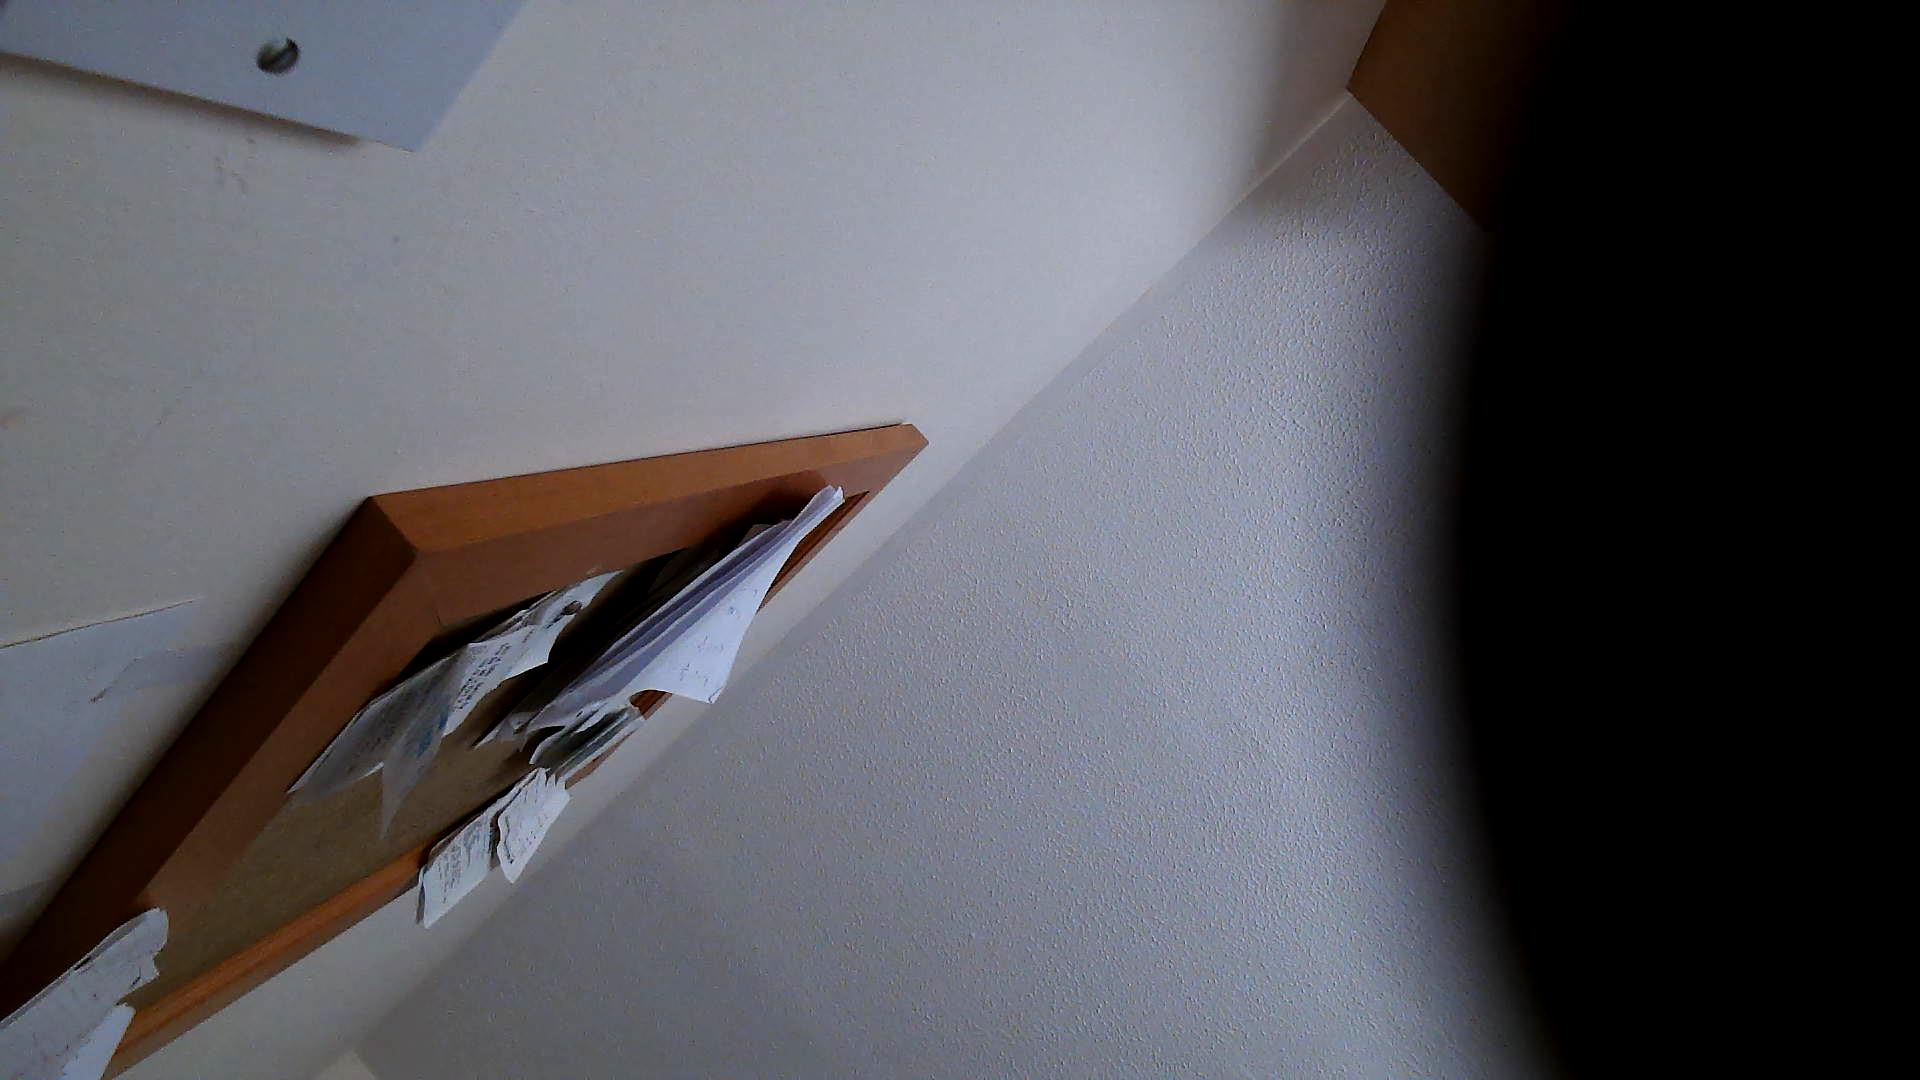
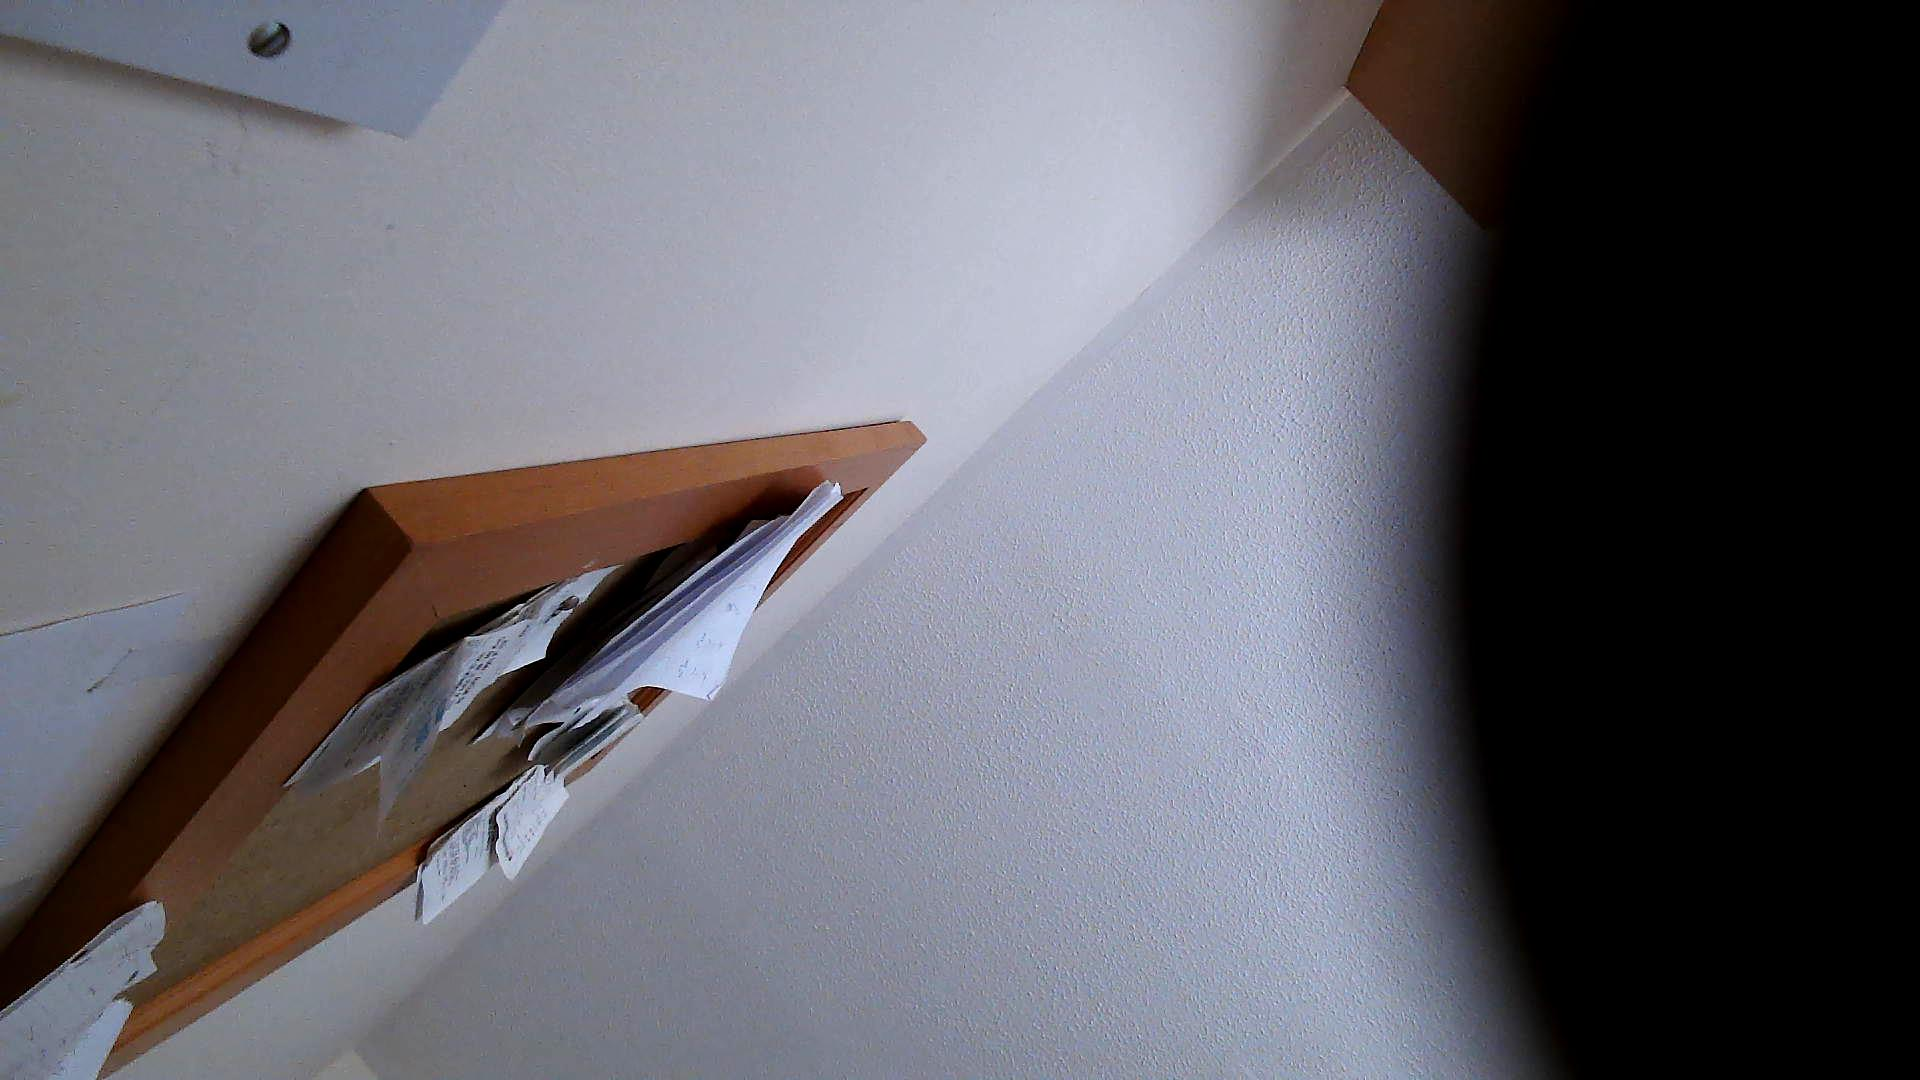
its moving

diff --git a/Code/main.m b/Code/main.m
@@ -28,7 +28,7 @@ img = snapshot(cam);
 
 %connect to serial, check if works
 s = connect_serial();
-Angle_Move(s ,100 ,1);
+Angle_Move(s ,0 ,1);
 
 %save image
 file_name = "cam_img";
@@ -73,7 +73,7 @@ while 1
     %%%%% TO BE ADDED  %%%%%
     
     %mAKE ACTUAL TRACKING MOVEMENT
-    current_angle = track_person(current_angle, y)
+    current_angle = track_person(s, current_angle, y)
 end
 
 
@@ -90,7 +90,7 @@ function s = connect_serial()
     configureTerminator(s,"LF");
 end
 
-function next_angle = track_person(current_angle, y)
+function next_angle = track_person(s, current_angle, y)
     %it is y index of pixels in the middle of the picture
     half_y = 1920/2;
     if y > half_y + 300
